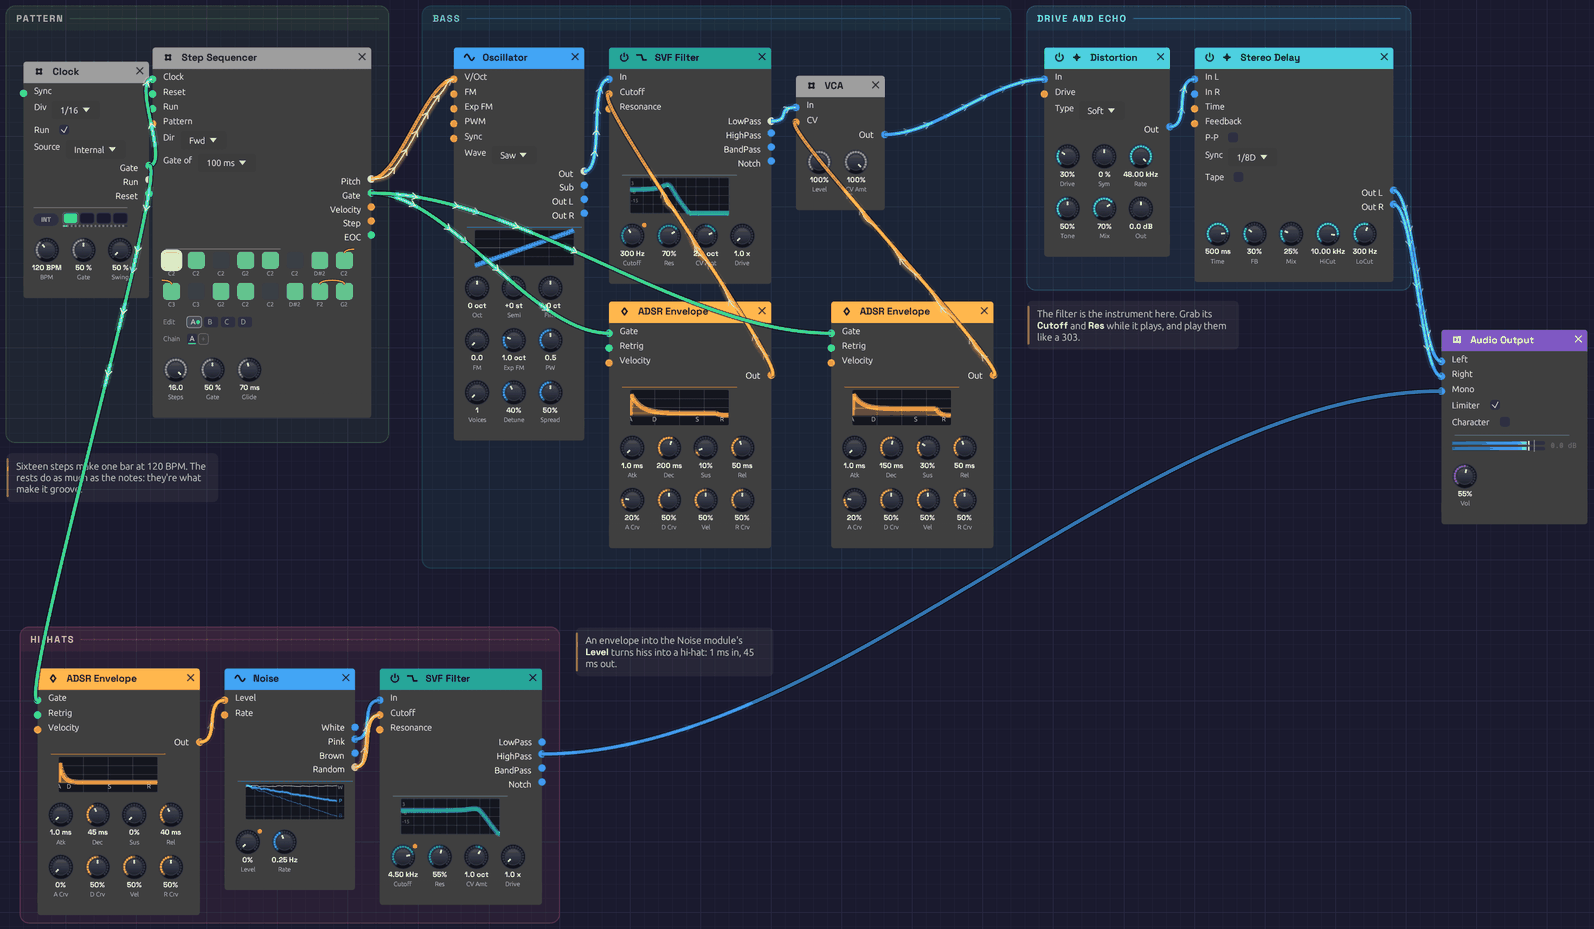
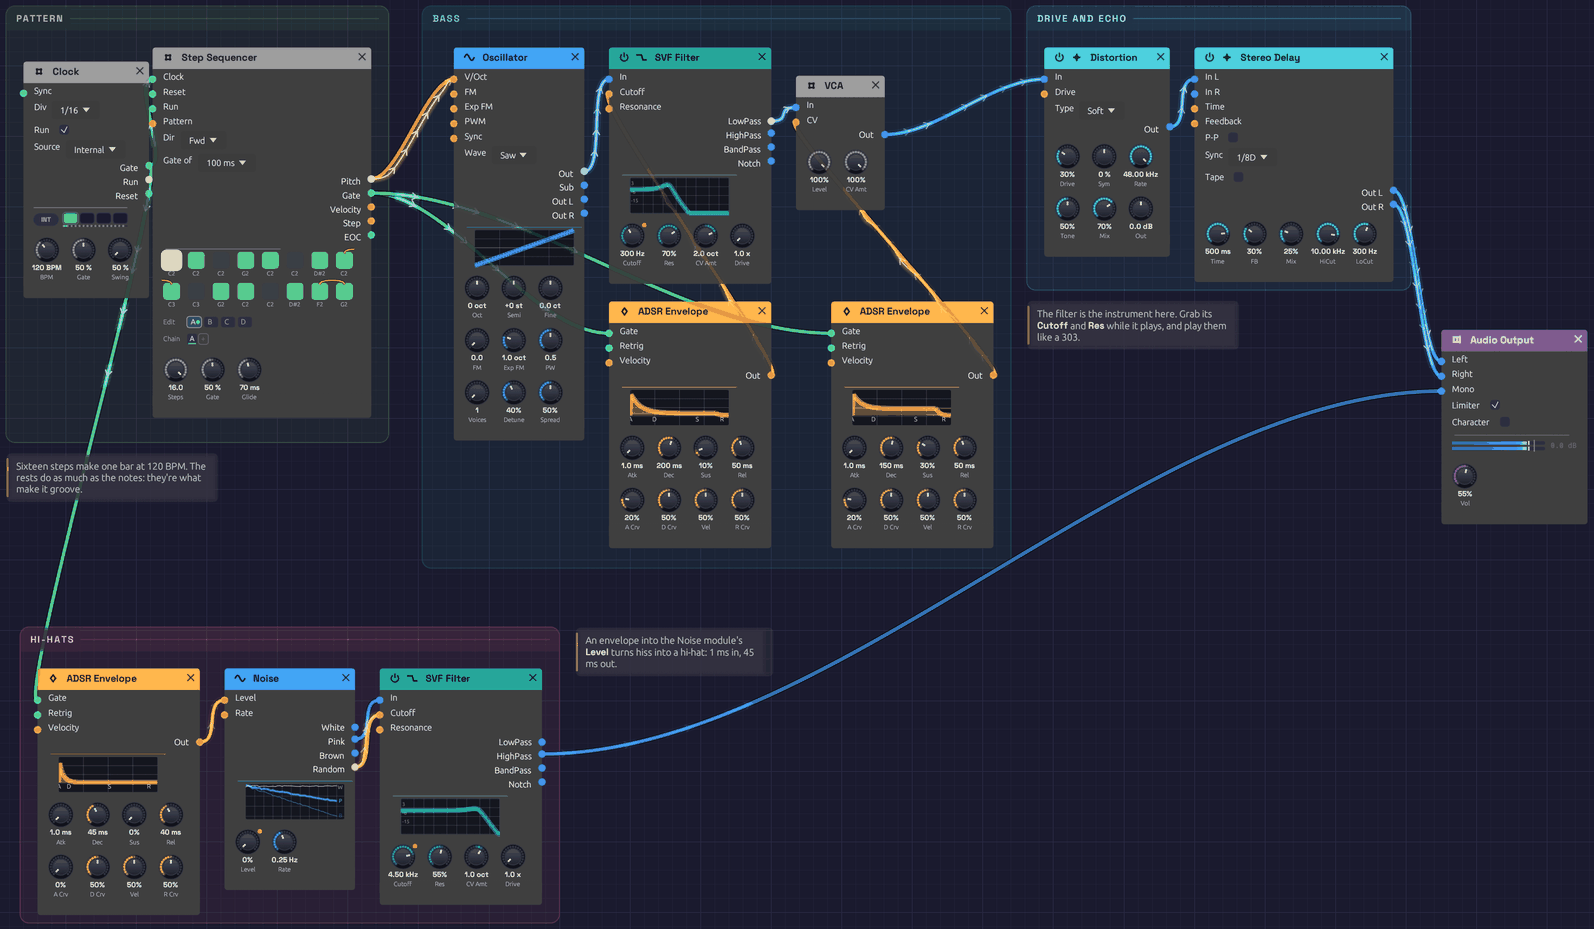
[Phase 8] Cables run behind modules and labels, showing faintly through
- Cables are drawn under module faces, frame titles and notes, showing
  through at 15% so a route can still be followed without covering
  controls or words (fork 9a0a18e: cables under the nodes, Backdrop::labels)
- Frame titles and notes are lettered over the cables on a feathered
  backing of the canvas beneath them; a note being edited stays under
- Cables ▸ Under modules and labels: a slider for how much shows
  through, remembered between sessions
- Every recipe image re-shot, Shoreline's "ON TAPE" title included

Closes #157

diff --git a/src/graph/annotation_ui.rs b/src/graph/annotation_ui.rs
@@ -12,7 +12,7 @@
 
 use egui::text::{CCursor, CCursorRange, LayoutJob, TextFormat};
 use egui::{
-    pos2, vec2, Color32, CursorIcon, FontFamily, FontId, Id, PointerButton, Pos2, Rect, Rounding, Sense,
+    pos2, vec2, Color32, Mesh, CursorIcon, FontFamily, FontId, Id, PointerButton, Pos2, Rect, Rounding, Sense,
     Shape, Stroke, Ui, UiBuilder, Vec2,
 };
 use egui_node_graph2::{Backdrop, NodeId};
@@ -58,6 +58,15 @@ const NOTE_MARK_WIDTH: f32 = 3.0;
 
 /// How near an edge the pointer can grab it, in screen points.
 const GRAB: f32 = 5.0;
+
+/// Words on the canvas are lettered over the cables, on a backing of the
+/// canvas beneath them, so a cable passing by goes behind them. A cable
+/// shows through the backing as strongly as through a module's face.
+///
+/// How far past the words the backing reaches, and how far beyond that it
+/// fades away, in patch points.
+const LABEL_MARGIN: Vec2 = Vec2::new(6.0, 3.0);
+const LABEL_FEATHER: f32 = 7.0;
 
 /// A note's ink, and the warmer ink its bold words are set in.
 const NOTE_INK: Color32 = Color32::from_rgb(196, 198, 212);
@@ -193,7 +202,9 @@ fn riders(annotations: &Annotations, frame_id: AnnotationId, area: Rect) -> Vec<
 /// Larger frames go first, so a frame inside another sits on top of it.
 /// Returns whether the pointer is over one of their handles, where a
 /// right-click is theirs rather than the canvas's.
-pub fn show(ui: &mut Ui, annotations: &mut Annotations, mut backdrop: Backdrop<'_>, view: View) -> bool {
+/// `through` is how strongly a cable shows through the words it passes
+/// behind, as through a module's face.
+pub fn show(ui: &mut Ui, annotations: &mut Annotations, mut backdrop: Backdrop<'_>, view: View, through: f32) -> bool {
     let mut frames: Vec<(AnnotationId, f32)> = annotations
         .iter()
         .filter_map(|(id, a)| match a {
@@ -208,10 +219,10 @@ pub fn show(ui: &mut Ui, annotations: &mut Annotations, mut backdrop: Backdrop<'
     let mut over_handle = false;
     let mut menu_actions = Vec::new();
     for (id, _) in frames {
-        over_handle |= frame_ui(ui, annotations, id, &mut backdrop, view, &mut menu_actions);
+        over_handle |= frame_ui(ui, annotations, id, &mut backdrop, view, through, &mut menu_actions);
     }
     for id in notes {
-        over_handle |= note_ui(ui, annotations, id, &mut backdrop, view, &mut menu_actions);
+        over_handle |= note_ui(ui, annotations, id, &mut backdrop, view, through, &mut menu_actions);
     }
 
     for action in menu_actions {
@@ -273,6 +284,7 @@ fn frame_ui(
     id: AnnotationId,
     backdrop: &mut Backdrop<'_>,
     view: View,
+    through: f32,
     menu_actions: &mut Vec<MenuAction>,
 ) -> bool {
     let Some(Annotation::Frame(frame)) = annotations.get(id).cloned() else { return false };
@@ -399,7 +411,7 @@ fn frame_ui(
     let screen = view.rect_to_screen(frame.rect);
     let band = Rect::from_min_size(screen.min, vec2(screen.width(), FRAME_TITLE_BAND * zoom));
     let hovered = title.hovered() || title.dragged() || resizing;
-    paint_frame(ui, body_slot, &frame, screen, band, zoom, selected, hovered, editing);
+    paint_frame(ui, body_slot, backdrop.labels, through, &frame, screen, band, zoom, selected, hovered, editing);
 
     if editing {
         title_editor(ui, annotations, id, band, zoom, title_ink(frame.tint));
@@ -412,6 +424,8 @@ fn frame_ui(
 fn paint_frame(
     ui: &Ui,
     slot: egui::layers::ShapeIdx,
+    labels: &mut Vec<Shape>,
+    through: f32,
     frame: &Frame,
     screen: Rect,
     band: Rect,
@@ -425,10 +439,11 @@ fn paint_frame(
     let mut shapes = Vec::new();
 
     // A faint wash of the tint, a little deeper across the title band
-    shapes.push(Shape::rect_filled(screen, rounding, tint.gamma_multiply(if selected { 0.095 } else { 0.07 })));
+    let wash = tint.gamma_multiply(if selected { 0.095 } else { 0.07 });
+    shapes.push(Shape::rect_filled(screen, rounding, wash));
     let band_rounding = Rounding { nw: rounding, ne: rounding, sw: 0.0, se: 0.0 };
-    let band_alpha = if hovered { 0.12 } else { 0.07 };
-    shapes.push(Shape::rect_filled(band, band_rounding, tint.gamma_multiply(band_alpha)));
+    let band_wash = tint.gamma_multiply(if hovered { 0.12 } else { 0.07 });
+    shapes.push(Shape::rect_filled(band, band_rounding, band_wash));
     let outline = if selected {
         Stroke::new(1.5, tint.gamma_multiply(0.9))
     } else if hovered {
@@ -439,7 +454,8 @@ fn paint_frame(
     shapes.push(Shape::rect_stroke(screen, rounding, outline));
 
     // The title, in spaced capitals, and a hairline ruled on from it to the
-    // edge, as sections are marked out on a printed panel
+    // edge, as sections are marked out on a printed panel. The title sits
+    // over the cables, on the band as it looks beneath them
     let ink = title_ink(frame.tint);
     let inset = FRAME_TITLE_INSET * zoom;
     let mut rule_from = band.left() + inset;
@@ -447,7 +463,9 @@ fn paint_frame(
         let galley = ui.painter().layout_job(title_job(&frame.title, zoom, ink));
         let at = pos2(band.left() + inset, band.center().y - galley.size().y / 2.0);
         rule_from = at.x + galley.size().x + 10.0 * zoom;
-        shapes.push(Shape::galley(at, galley, ink));
+        let under = laid_over(laid_over(theme::background::MAIN, wash), band_wash);
+        labels.push(label_backing(Rect::from_min_size(at, galley.size()), under, through, zoom));
+        labels.push(Shape::galley(at, galley, ink));
     } else if editing {
         rule_from = band.right();
     }
@@ -457,6 +475,44 @@ fn paint_frame(
         shapes.push(Shape::line_segment([pos2(rule_from, y), pos2(rule_to, y)], Stroke::new(1.0, tint.gamma_multiply(0.35))));
     }
     ui.painter().set(slot, Shape::Vec(shapes));
+}
+
+/// `top` laid over `bottom`, as the painter blends them.
+fn laid_over(bottom: Color32, top: Color32) -> Color32 {
+    let keep = 1.0 - top.a() as f32 / 255.0;
+    let mix = |b: u8, t: u8| (t as f32 + b as f32 * keep).round().min(255.0) as u8;
+    Color32::from_rgba_premultiplied(
+        mix(bottom.r(), top.r()),
+        mix(bottom.g(), top.g()),
+        mix(bottom.b(), top.b()),
+        mix(bottom.a(), top.a()),
+    )
+}
+
+/// The backing lettering on the canvas sits on, over the cables: `under`, the
+/// color of the canvas there, around `words` and fading out past them, so a
+/// cable passing by dims as it goes behind them rather than stopping short.
+/// `through` of the cable still shows.
+fn label_backing(words: Rect, under: Color32, through: f32, zoom: f32) -> Shape {
+    let inner = words.expand2(LABEL_MARGIN * zoom);
+    let outer = inner.expand(LABEL_FEATHER * zoom);
+    let solid = under.gamma_multiply(1.0 - through.clamp(0.0, 1.0));
+    let mut mesh = Mesh::default();
+    for corner in [inner.left_top(), inner.right_top(), inner.right_bottom(), inner.left_bottom()] {
+        mesh.colored_vertex(corner, solid);
+    }
+    for corner in [outer.left_top(), outer.right_top(), outer.right_bottom(), outer.left_bottom()] {
+        mesh.colored_vertex(corner, Color32::TRANSPARENT);
+    }
+    mesh.add_triangle(0, 1, 2);
+    mesh.add_triangle(0, 2, 3);
+    // Each side fades from the inner edge to the outer
+    for side in 0..4 {
+        let (a, b) = (side, (side + 1) % 4);
+        mesh.add_triangle(a, b, b + 4);
+        mesh.add_triangle(a, b + 4, a + 4);
+    }
+    Shape::mesh(mesh)
 }
 
 /// A frame title as lettered: capitals, spaced out.
@@ -551,6 +607,7 @@ fn note_ui(
     id: AnnotationId,
     backdrop: &mut Backdrop<'_>,
     view: View,
+    through: f32,
     menu_actions: &mut Vec<MenuAction>,
 ) -> bool {
     let Some(Annotation::Note(note)) = annotations.get(id).cloned() else { return false };
@@ -633,7 +690,7 @@ fn note_ui(
     };
     let wrap = (note.width * zoom - 2.0 * padding.x).max(1.0);
     let at = view.to_screen(note.position);
-    let text_rect = if editing {
+    let (text_rect, lettered) = if editing {
         let rect = Rect::from_min_size(at + padding, vec2(wrap, text_height));
         let Some(editing) = annotations.editing.as_mut() else { return over };
         let output = ui
@@ -651,12 +708,10 @@ fn note_ui(
             .inner;
         let rect = output.response.rect;
         finish_frame_of_editing(ui, annotations, id, output);
-        rect
+        (rect, None)
     } else {
         let galley = ui.painter().layout_job(note_job(&note.text, zoom, wrap));
-        let rect = Rect::from_min_size(at + padding, galley.size());
-        ui.painter().galley(rect.min, galley, NOTE_INK);
-        rect
+        (Rect::from_min_size(at + padding, galley.size()), Some(galley))
     };
     let card = Rect::from_min_max(at, pos2(at.x + note.width * zoom, text_rect.bottom() + padding.y));
 
@@ -672,7 +727,31 @@ fn note_ui(
     } else if body.hovered() || widen.hovered() {
         shapes.push(Shape::rect_stroke(card, rounding, Stroke::new(1.0, NOTE_INK.gamma_multiply(0.18))));
     }
-    ui.painter().set(card_slot, Shape::Vec(shapes));
+    if let Some(galley) = lettered {
+        // A note is lettered over the cables, as a frame's title is
+        backdrop.labels.push(label_backing(text_rect, laid_over(theme::background::MAIN, NOTE_FILL), through, zoom));
+        backdrop.labels.extend(shapes);
+        backdrop.labels.push(Shape::galley(text_rect.min, galley, NOTE_INK));
+    } else {
+        // The text field is drawn under the cables, so the card is too
+        ui.painter().set(card_slot, Shape::Vec(shapes));
+    }
     annotations.drawn.insert(id, card);
     over
+}
+
+#[cfg(test)]
+mod tests {
+    use super::*;
+
+    #[test]
+    fn a_backing_matches_the_canvas_it_is_laid_on() {
+        let canvas = theme::background::MAIN;
+        assert_eq!(laid_over(canvas, Color32::TRANSPARENT), canvas);
+        assert_eq!(laid_over(canvas, Color32::WHITE), Color32::WHITE);
+        // A wash lightens the canvas toward its tint, and stays opaque
+        let washed = laid_over(canvas, Tint::ALL[0].color().gamma_multiply(0.07));
+        assert_eq!(washed.a(), 255);
+        assert_ne!(washed, canvas);
+    }
 }

diff --git a/src/app/synth_app.rs b/src/app/synth_app.rs
@@ -66,6 +66,8 @@ const AUDIO_STALL: std::time::Duration = std::time::Duration::from_millis(750);
 
 /// Storage key for the mark drawn along cables (Cables menu)
 const FLOW_GLYPH_KEY: &str = "cable_flow_glyph";
+/// Storage key for how strongly cables show through modules (Cables menu)
+const CABLE_THROUGH_KEY: &str = "cable_through";
 
 /// Storage key for how knobs are drawn (Knobs menu)
 const KNOB_STYLE_KEY: &str = "knob_style";
@@ -1403,6 +1405,14 @@ impl SynthApp {
                 for glyph in FlowGlyph::ALL {
                     ui.radio_value(&mut self.user_state.flow_glyph, glyph, glyph.name());
                 }
+                ui.separator();
+                ui.label(RichText::new("Under modules and labels").color(theme::text::SECONDARY));
+                ui.add(
+                    egui::Slider::new(&mut self.user_state.cable_through, 0.0..=1.0)
+                        .custom_formatter(|v, _| format!("{:.0}%", v * 100.0))
+                        .custom_parser(|text| text.trim().trim_end_matches('%').trim().parse::<f64>().ok().map(|v| v / 100.0)),
+                )
+                .on_hover_text("How much of a cable shows through a module, frame title or note it passes under");
             })
             .response
             .on_hover_text("How signal flow is drawn along cables");
@@ -3297,6 +3307,9 @@ impl SynthApp {
         #[cfg(not(target_arch = "wasm32"))]
         self.updater.load(storage);
         self.recovery = Autosave::load(storage);
+        if let Some(through) = storage.and_then(|s| s.get_string(CABLE_THROUGH_KEY)).and_then(|t| t.parse::<f32>().ok()) {
+            self.user_state.cable_through = through.clamp(0.0, 1.0);
+        }
         if let Some(glyph) = storage.and_then(|s| s.get_string(FLOW_GLYPH_KEY)) {
             self.user_state.flow_glyph = FlowGlyph::ALL
                 .into_iter()
@@ -4346,6 +4359,7 @@ impl eframe::App for SynthApp {
         #[cfg(not(target_arch = "wasm32"))]
         self.updater.store(storage);
         storage.set_string(FLOW_GLYPH_KEY, self.user_state.flow_glyph.name().to_string());
+        storage.set_string(CABLE_THROUGH_KEY, self.user_state.cable_through.to_string());
         storage.set_string(KNOB_STYLE_KEY, self.user_state.knob_style.name().to_string());
         if let Ok(engine) = &self.audio_engine {
             storage.set_string(AUDIO_SYSTEM_KEY, engine.audio_system().key().to_string());

diff --git a/src/graph/state.rs b/src/graph/state.rs
@@ -24,6 +24,10 @@ const VALIDATION_MESSAGE_DURATION_SECS: f32 = 3.0;
 /// Maximum number of MIDI events to store for display.
 const MAX_MIDI_EVENTS: usize = 10;
 
+/// How strongly a cable shows through what it passes under, at first (the
+/// Cables menu changes it).
+pub const CABLE_THROUGH: f32 = 0.15;
+
 /// A MIDI event with display timestamp for the MIDI Monitor.
 #[derive(Clone, Debug)]
 pub struct DisplayMidiEvent {
@@ -107,6 +111,10 @@ pub struct SynthGraphState {
 
     /// The mark that rides the signal along every cable.
     pub flow_glyph: FlowGlyph,
+
+    /// How strongly a cable shows through a module face, or the words on
+    /// the canvas, it passes under: 0 not at all, 1 as over the canvas.
+    pub cable_through: f32,
 
     /// How knobs are drawn.
     pub knob_style: crate::widgets::KnobStyle,
@@ -243,6 +251,7 @@ impl Default for SynthGraphState {
             output_channels: HashMap::new(),
             signal_history: HashMap::new(),
             flow_glyph: FlowGlyph::default(),
+            cable_through: CABLE_THROUGH,
             knob_style: crate::widgets::KnobStyle::default(),
             midi_events: VecDeque::new(),
             midi_first_event_time: None,
@@ -613,6 +622,10 @@ impl ConnectionSignalTrait for SynthGraphState {
         self.flow_glyph
     }
 
+    fn cable_through_node(&self) -> f32 {
+        self.cable_through
+    }
+
     fn node_shown(&self, node_id: NodeId) -> bool {
         !self.hidden.contains(&node_id)
     }
@@ -631,7 +644,7 @@ impl ConnectionSignalTrait for SynthGraphState {
             view_origin = annotations::follow_zoom(view_origin, backdrop.zoom / self.zoom, half_size, *backdrop.pan);
         }
         let view = View { origin: backdrop.origin + view_origin, zoom: backdrop.zoom };
-        self.over_annotation = annotation_ui::show(ui, &mut self.annotations, backdrop, view);
+        self.over_annotation = annotation_ui::show(ui, &mut self.annotations, backdrop, view, self.cable_through);
     }
 
     fn output_port_color(

diff --git a/docs/src/getting-started/interface-overview.md b/docs/src/getting-started/interface-overview.md
@@ -14,7 +14,7 @@ From left to right:
 | **Transport** | **▶ Play** starts the patch; **⏹ Stop** stops it. The app opens stopped. **● Rec** records what you hear: see [Recording](#recording). |
 | **File** | **📄 New**, **📂 Open**, **🕘 Recent**, **📚 Examples**, **💾 Save**, **💾 Save As** |
 | **Edit** | **↩ Undo** and **↪ Redo**. Hover either to see which edit it will undo or redo. |
-| **〰 Cables** | How signal flow is drawn along cables: **Chevrons**, **Dots** or **Comets** |
+| **〰 Cables** | How signal flow is drawn along cables: **Chevrons**, **Dots** or **Comets**. **Under modules and labels** sets how much of a cable shows through a module, frame title or note it passes behind (15% at first) |
 | **◉ Knobs** | How knobs are drawn: **LED ring**, **Hybrid**, **Arc**, **Machined** or **Classic** |
 | **❓ Help** | **📖 Manual** opens this manual. **Check for Updates…**, **Check for Updates Automatically**, and **Roll Back** after an update: see [Updates](installation.md#updates) |
 | **Output** | The audio device to play through |
@@ -101,6 +101,8 @@ Drag from an output to an input to patch a cable; a jack turns white when the ca
 - **Each input takes one cable.** Dropping a new cable onto an occupied input replaces the old one.
 - **No loops.** A cable that would feed a module's output back into its own input, directly or through other modules, is refused.
 - **To remove a cable,** drag its end off the input jack and let go over empty canvas.
+
+Cables run behind the modules, and behind frame titles and notes, showing faintly through them so a route can still be followed without covering the controls or the words. **〰 Cables ▸ Under modules and labels** sets how faintly.
 
 While the patch plays, cables show what their signal has been doing over the last few seconds. [Reading the signal in a cable](../concepts/connections.md#reading-the-signal-in-a-cable) explains what you're seeing.
 
